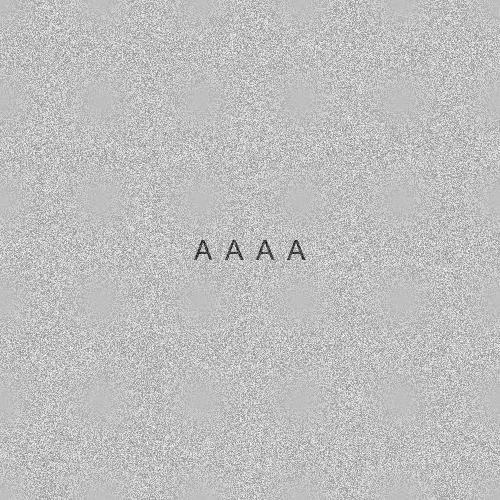
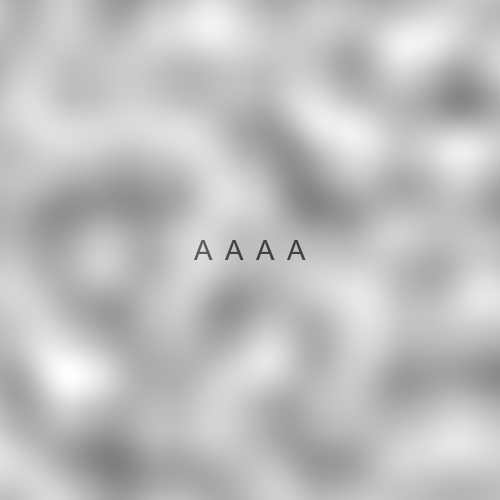
perlin noise is working

diff --git a/Main/perlin_generator.py b/Main/perlin_generator.py
@@ -1,6 +1,7 @@
+from perlin_noise import PerlinNoise
 from PIL import Image
 import numpy as np
-import matplotlib.pyplot as plt
+
 
 class perlinNoiser:
     def __init__(self, input_image_path, intensity, output_image_path):
@@ -8,61 +9,28 @@ class perlinNoiser:
         self.intensity = intensity
         self.output_image_path = output_image_path
 
-    def generate_perlin_noise(self, width, height, scale=100):
-        def lerp(a, b, t):
-            return a + t * (b - a)
-        
-        def fade(t):
-            return t * t * t * (t * (t * 6 - 15) + 10)
-        
-        def gradient(h, x, y):
-            # Gradient vectors (simplified for 2D Perlin Noise)
-            vectors = np.array([[1, 1], [-1, 1], [1, -1], [-1, -1]])
-            return vectors[h % 4, 0] * x + vectors[h % 4, 1] * y
-        
-        def perlin(x, y):
-            # Determine grid cell coordinates
-            x0, y0 = int(np.floor(x)), int(np.floor(y))
-            x1, y1 = x0 + 1, y0 + 1
-            
-            # Relative coordinates
-            sx, sy = x - x0, y - y0
-            
-            # Fade curves
-            u, v = fade(sx), fade(sy)
-            
-            # Gradient hashes
-            g00 = gradient(np.random.randint(0, 4), sx, sy)
-            g01 = gradient(np.random.randint(0, 4), sx, sy - 1)
-            g10 = gradient(np.random.randint(0, 4), sx - 1, sy)
-            g11 = gradient(np.random.randint(0, 4), sx - 1, sy - 1)
-            
-            # Interpolate
-            nx0 = lerp(g00, g10, u)
-            nx1 = lerp(g01, g11, u)
-            nxy = lerp(nx0, nx1, v)
-            return nxy
-        
-        noise = np.zeros((height, width))
-        for y in range(height):
-            for x in range(width):
-                noise[y, x] = perlin(x / scale, y / scale)
-        
-        # Normalize
-        noise = (noise - noise.min()) / (noise.max() - noise.min()) * 255
-        return noise.astype(np.uint8)
+    def generate_perlin_noise(self, width, height, octaves=6):
+        noise = PerlinNoise(octaves=octaves, seed=42)
+        # Generate noise values for each pixel
+        pic = [[noise([i / width, j / height]) for j in range(width)] for i in range(height)]
+        pic = np.array(pic)
+        # Normalize the noise to fit into 0-255
+        pic = (pic - pic.min()) / (pic.max() - pic.min()) * 255
+        print("Noise generated")
+        return pic.astype(np.uint8)
 
     def process_image(self):
         # Load the input image
-        image = Image.open(self.input_image_path).convert("L")
+        image = Image.open(self.input_image_path).convert("L")  # Convert to grayscale
         image_array = np.array(image)
-        
-        # Generate Perlin noise
+        print("Image Loaded")
+
+        # Generate Perlin noise with the same dimensions as the image
         noise = self.generate_perlin_noise(image_array.shape[1], image_array.shape[0])
-        
-        # Blend the image with noise
+
+        # Blend the image with the Perlin noise
         blended = ((1 - self.intensity) * image_array + self.intensity * noise).astype(np.uint8)
-        
+
         # Save the result
         output_image = Image.fromarray(blended)
         output_image.save(self.output_image_path)
